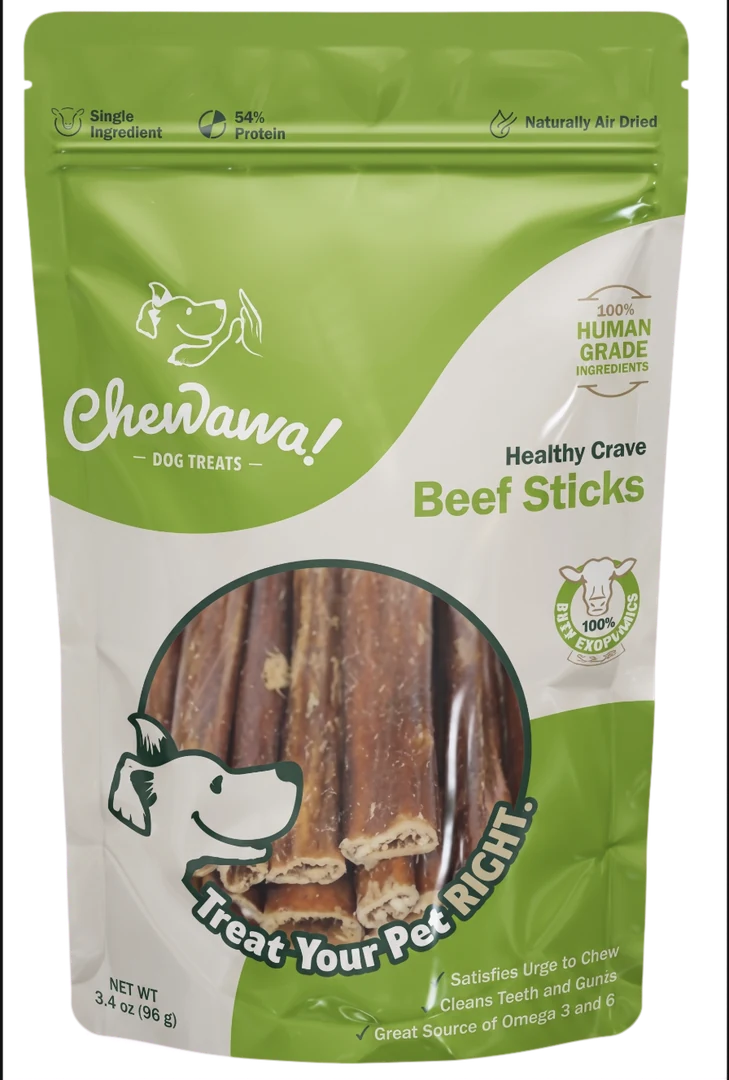
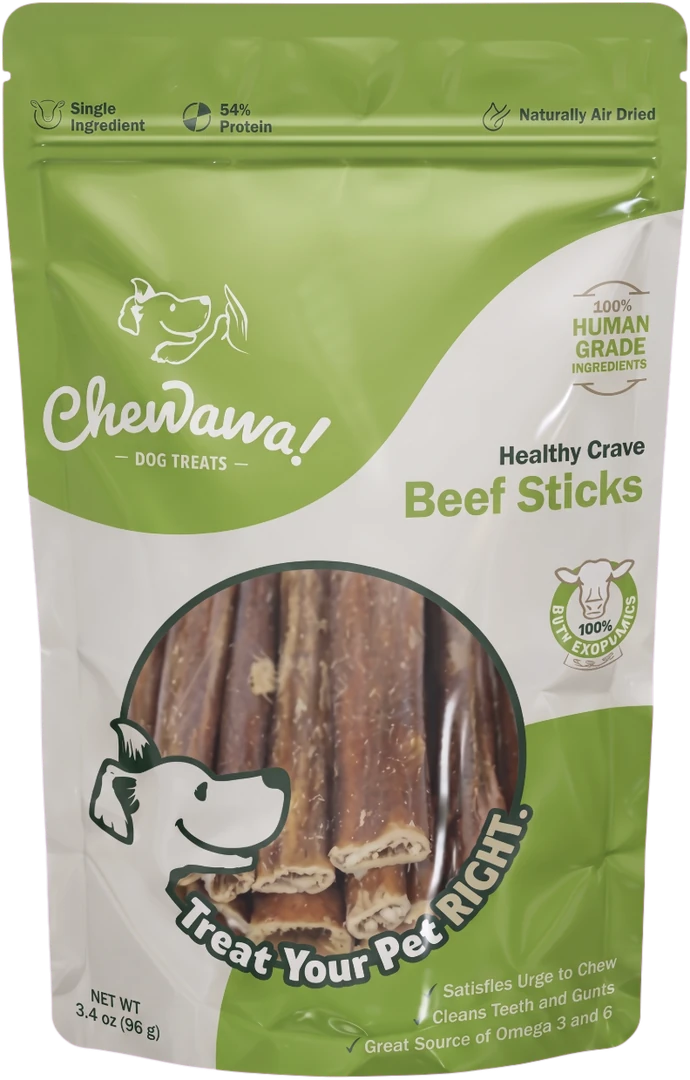
Brand band: golden retriever + clean Beef Sticks bag
img-dog-top.webp: new top-down golden retriever (AI render, rembg cutout), 658x971. img-bag-sticks.webp: regenerated from the previous bag as reference; crisp edges, no dark outline residue, 690x1080 (shared by the product card, the pack stack and the band). index.html: intrinsic width/height updated for both.

diff --git a/index.html b/index.html
@@ -564,7 +564,7 @@ body.notes .note{display:block}
       </div>
       <div class="bags" id="bundleBags">
         <img src="img-bag-patas.webp" alt="Patas de pollo" width="684" height="1080">
-        <img src="img-bag-sticks.webp" alt="Sticks de res" width="729" height="1080">
+        <img src="img-bag-sticks.webp" alt="Sticks de res" width="690" height="1080">
         <img src="img-bag-pechuga.webp" alt="Tiras de pechuga" width="729" height="1080">
         <img src="img-bag-jerky.webp" alt="Jerky de res" width="729" height="1080">
         <img src="img-bag-pulmon.webp" alt="Pulmón de res" width="689" height="1080">
@@ -579,7 +579,7 @@ body.notes .note{display:block}
 <section id="momento" class="momento" aria-labelledby="momentoTitle">
   <div class="wrap">
     <div class="moment rv" lang="en">
-      <img class="m-dog" src="img-dog-top.webp" alt="" width="686" height="967" loading="lazy" decoding="async">
+      <img class="m-dog" src="img-dog-top.webp" alt="" width="658" height="971" loading="lazy" decoding="async">
       <div class="m-text">
         <img class="m-logo" src="img-logo.webp" alt="" width="400" height="142" loading="lazy" decoding="async">
         <h2 id="momentoTitle" class="m-h">
@@ -589,7 +589,7 @@ body.notes .note{display:block}
           <span>A<svg class="dd d3" viewBox="0 0 100 60" aria-hidden="true" focusable="false"><path pathLength="1" d="M10 34 C 28 -4, 74 -4, 60 30 S 18 58, 44 46 C 60 38, 76 36, 92 36"/><path pathLength="1" d="M80 24 L94 36 L80 48"/></svg>Time!</span>
         </h2>
       </div>
-      <img class="m-bag" src="img-bag-sticks.webp" alt="" width="729" height="1080" loading="lazy" decoding="async">
+      <img class="m-bag" src="img-bag-sticks.webp" alt="" width="690" height="1080" loading="lazy" decoding="async">
       <svg class="m-spark s1" viewBox="0 0 24 24" aria-hidden="true" focusable="false"><path d="M12 0c1 7 5 11 12 12-7 1-11 5-12 12-1-7-5-11-12-12 7-1 11-5 12-12z"/></svg>
       <svg class="m-spark s2" viewBox="0 0 24 24" aria-hidden="true" focusable="false"><path d="M12 0c1 7 5 11 12 12-7 1-11 5-12 12-1-7-5-11-12-12 7-1 11-5 12-12z"/></svg>
       <svg class="m-spark s3" viewBox="0 0 24 24" aria-hidden="true" focusable="false"><path d="M12 0c1 7 5 11 12 12-7 1-11 5-12 12-1-7-5-11-12-12 7-1 11-5 12-12z"/></svg>
@@ -840,7 +840,7 @@ const PRODUCTS = [
     descEn:'Crunchy, with natural glucosamine for joints. Ideal for medium and large breeds.',
     ingr:'Patas de pollo', ingrEn:'Chicken feet', protein:58, fat:3, fiber:1, moisture:12, unit:'piezas', unitEn:'pieces', portions:[[1,2],[2,3],[3,4],[4,5]] },
   { id:'sticks',  name:'Sticks de res', en:'Beef Sticks', sub:'Healthy Crave', code:'PT0042', qty:'96 g', qtyEn:'96 g', grams:96, price:199,
-    color:'#7BAF2C', tint:'#E8F1D6', img:'img-bag-sticks.webp', w:729, h:1080, tag:'Dental', tagEn:'Dental',
+    color:'#7BAF2C', tint:'#E8F1D6', img:'img-bag-sticks.webp', w:690, h:1080, tag:'Dental', tagEn:'Dental',
     desc:'Esófago de res deshidratado. Masticable largo que ayuda a limpiar los dientes sin harinas ni glicerina.',
     descEn:'Dehydrated beef esophagus. A long chew that helps clean teeth — no flours, no glycerin.',
     ingr:'Esófago de res', ingrEn:'Beef esophagus', protein:54, fat:6, fiber:1, moisture:12, unit:'sticks', unitEn:'sticks', portions:[[1,2],[2,3],[3,4],[4,5]] },

diff --git a/README.md b/README.md
@@ -70,7 +70,7 @@ Otros pendientes marcados en el HTML:
 - FAQ "¿Tienen registro sanitario?": colocar número de registro SENASICA/SADER.
 - Sello FDA del catálogo no se usa en la versión MX; agregar el sello mexicano que aplique.
 - Fotos de clientes / TikTok en la sección de opiniones.
-- `img-dog-top.webp` (perro cenital del bloque “Take one treat at a time!”) es un render generado con IA (Higgsfield, nano_banana_pro) recortado con rembg; sustituir por una foto real cuando la haya.
+- `img-dog-top.webp` (golden retriever cenital del bloque “Take one treat at a time!”) es un render generado con IA (Higgsfield, nano_banana_pro) recortado con rembg; sustituir por una foto real cuando la haya. `img-bag-sticks.webp` se regeneró el 9-sep con el mismo modelo usando la bolsa anterior como referencia (más nítida, sin bordes sucios); las otras cuatro bolsas siguen siendo los renders originales.
 - Las bolsas (`img-bag-*.webp`) y el beagle son renders generados con IA a partir de las imágenes del catálogo (234×360 px; fuentes en `src-*.png`): diseño, colores, logo y textos principales son fieles, pero la letra chica (bullets, sello redondo) es inventada por el modelo y no debe usarse como referencia. Para producción, pedir los renders originales en alta resolución al diseñador del catálogo.
 - Avisar a los leads: hoy solo se guardan en `b2b_leads`. Para recibir un WhatsApp/correo por cada lead, agregar un Database Webhook o una Edge Function en Supabase (los pedidos sí llegan a Telegram).
 - OXXO / Mercado Pago: el anuncio del sitio los promete; en Stripe MX se activan OXXO y SPEI desde *Settings → Payment methods* cuando la cuenta esté en live. Mercado Pago no pasa por Stripe.
